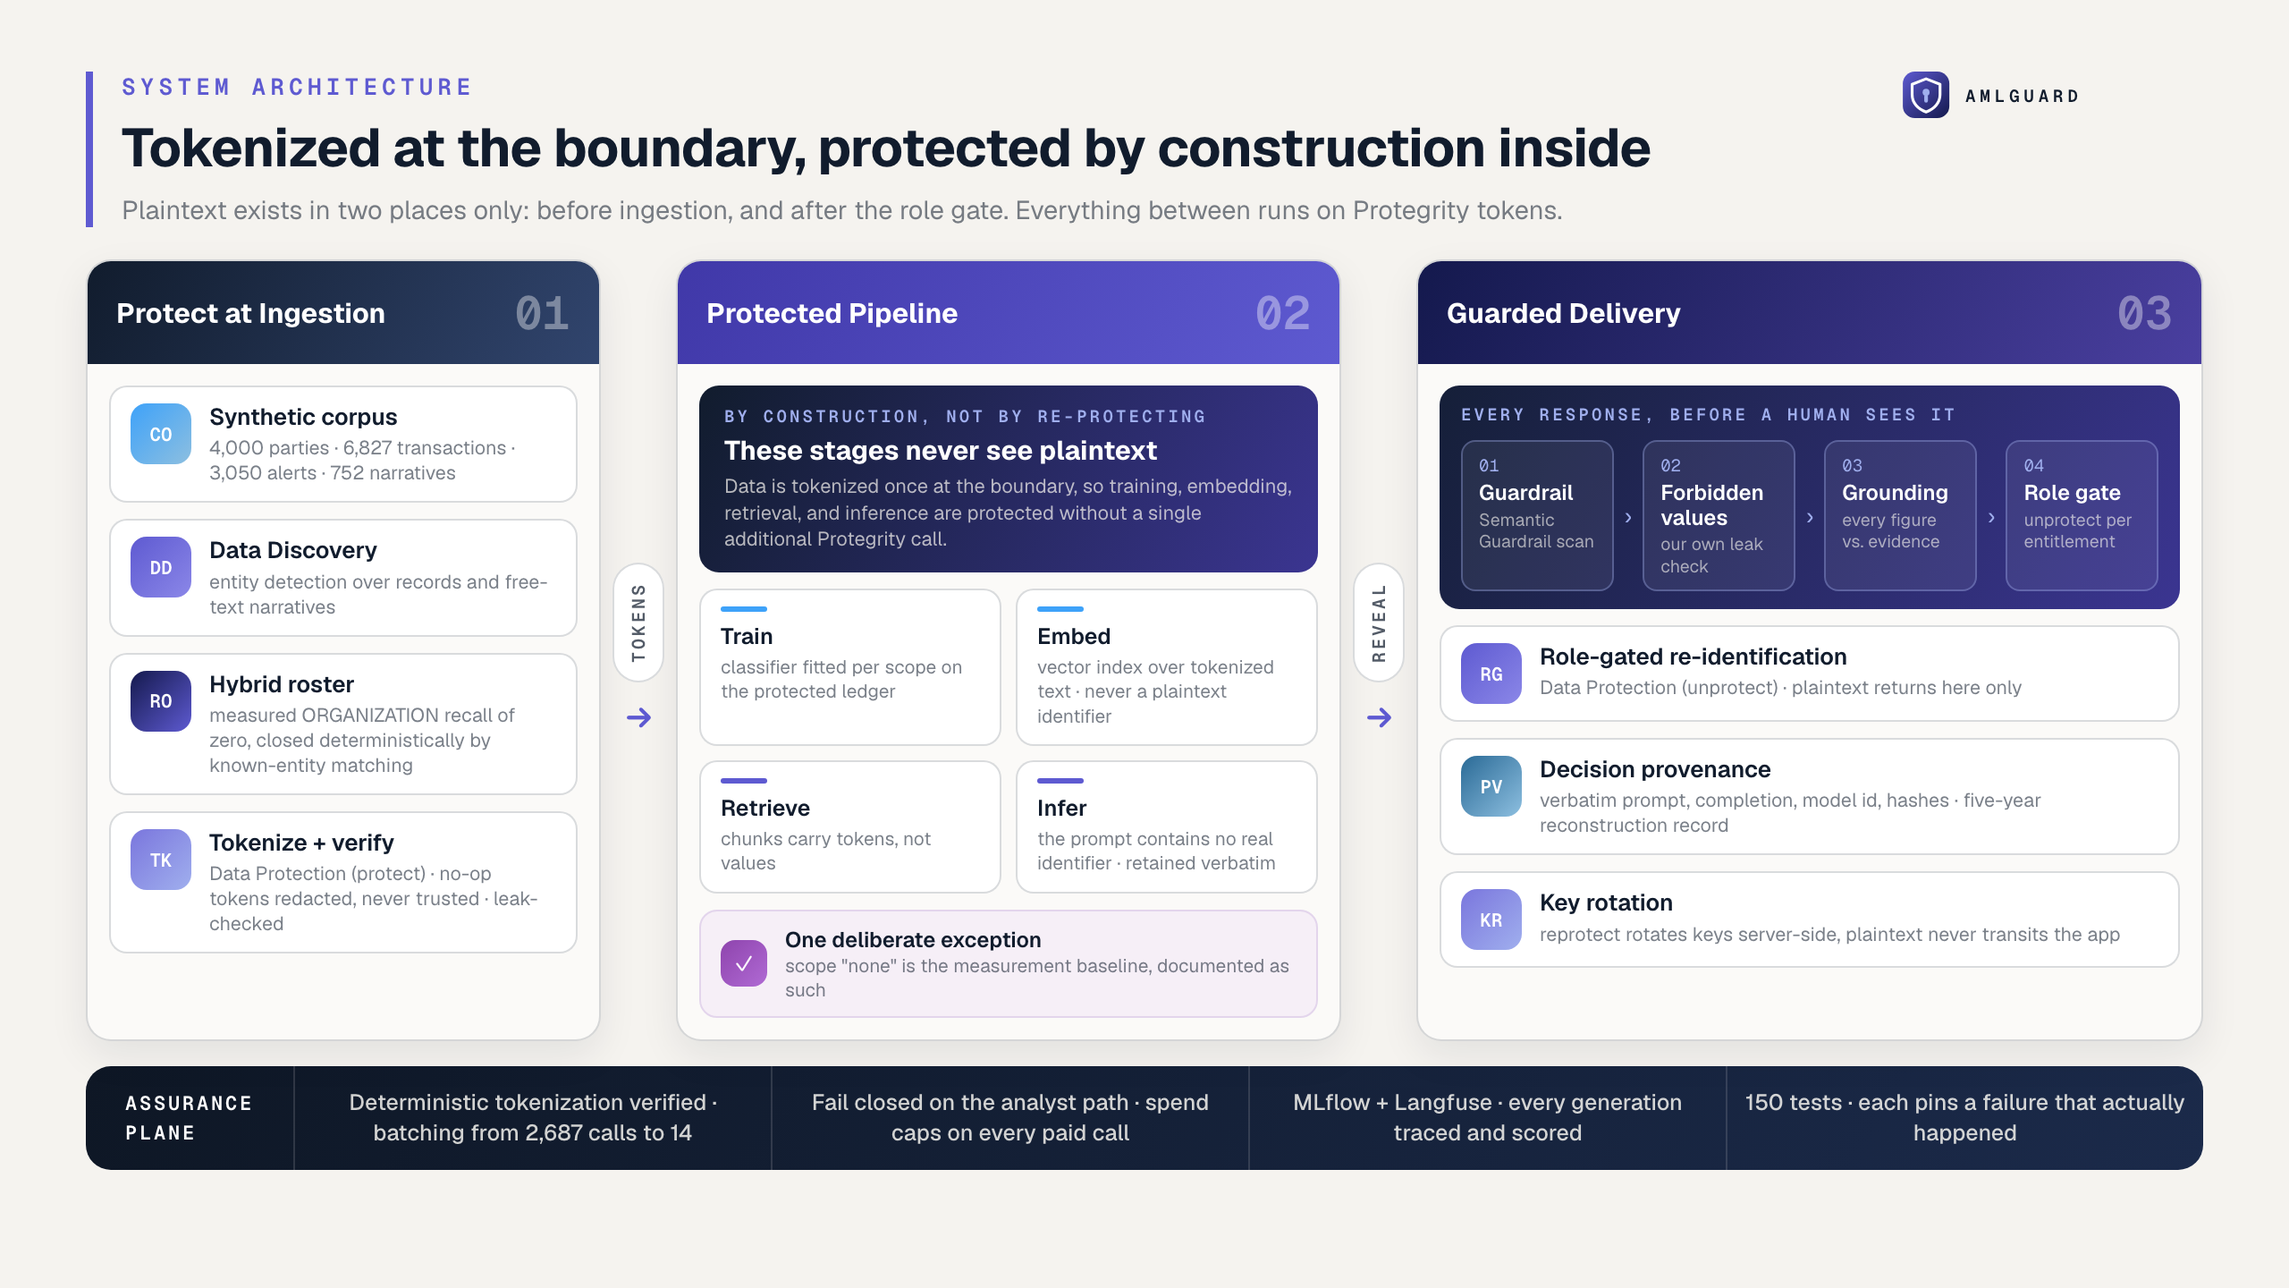
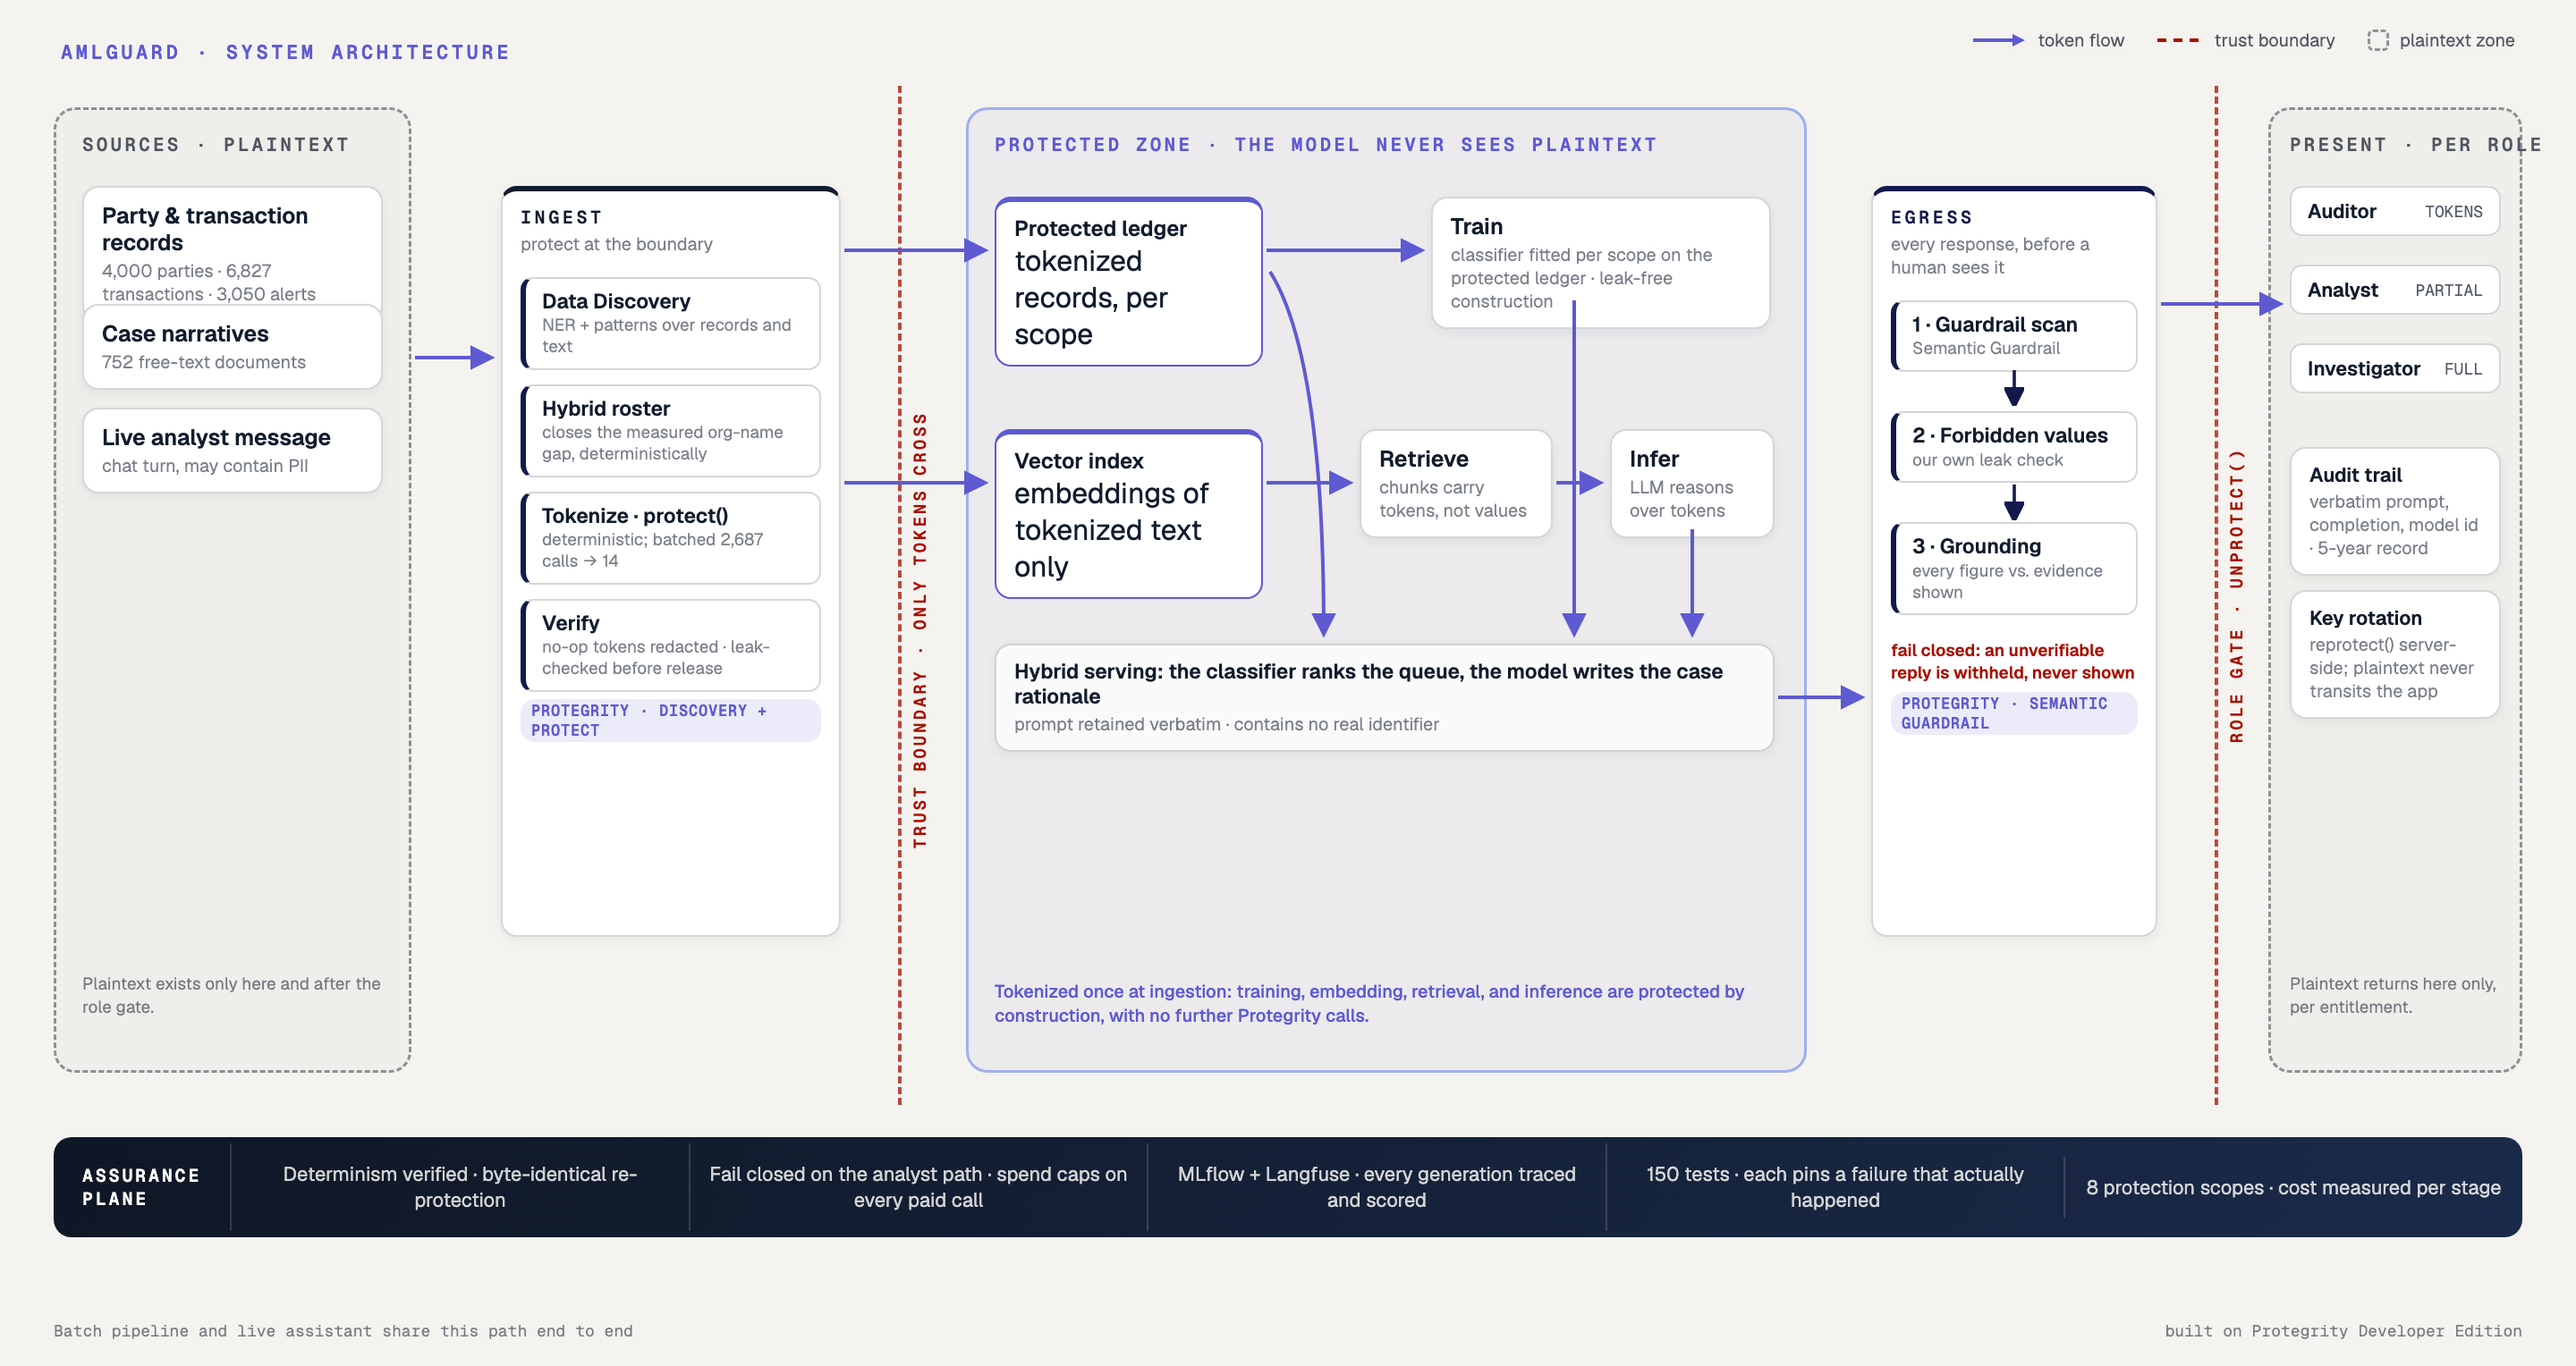
Docs: replace the slide-styled architecture image with a proper diagram
Left-to-right data flow with explicit trust boundaries (ingest tokenization,
role-gated unprotect), the protected zone with its stores and stages, the
egress guard chain, per-role presentation, and the assurance plane, plus a
legend. Also drop the hackathon-checkbox line from the seven-stages section;
challenge mapping stays consolidated in its own section.

diff --git a/README.md b/README.md
@@ -446,9 +446,7 @@ above.
 
 ## Protection across seven pipeline stages
 
-The challenge requires two.
-
-![System architecture: tokenized at the boundary, protected by construction inside — protect at ingestion, the protected pipeline, and guarded delivery, over an assurance plane](docs/diagrams/architecture-overview.png)
+![System architecture: plaintext sources flow through ingest-time protection across a trust boundary into the protected zone (ledger, training, vector index, retrieval, inference), then through the egress guard chain and the role gate to per-role presentation, over an assurance plane](docs/diagrams/architecture-overview.png)
 
 | Stage | What is protected | How Protegrity protects it |
 |---|---|---|

diff --git a/docs/architecture.md b/docs/architecture.md
@@ -16,7 +16,7 @@ independently checks that no in-scope identifier survives anywhere in the protec
 
 ## End-to-end architecture
 
-![System architecture overview: protect at ingestion, the protected pipeline, guarded delivery, and the assurance plane](diagrams/architecture-overview.png)
+![System architecture overview: plaintext sources, ingest-time protection, the trust boundary, the protected zone, the egress guard chain, the role gate, and the assurance plane](diagrams/architecture-overview.png)
 
 ![AMLGuard end-to-end pipeline: seven protected stages between the trust boundaries, with observability and cross-cutting concerns](diagrams/architecture-pipeline.svg)
 
